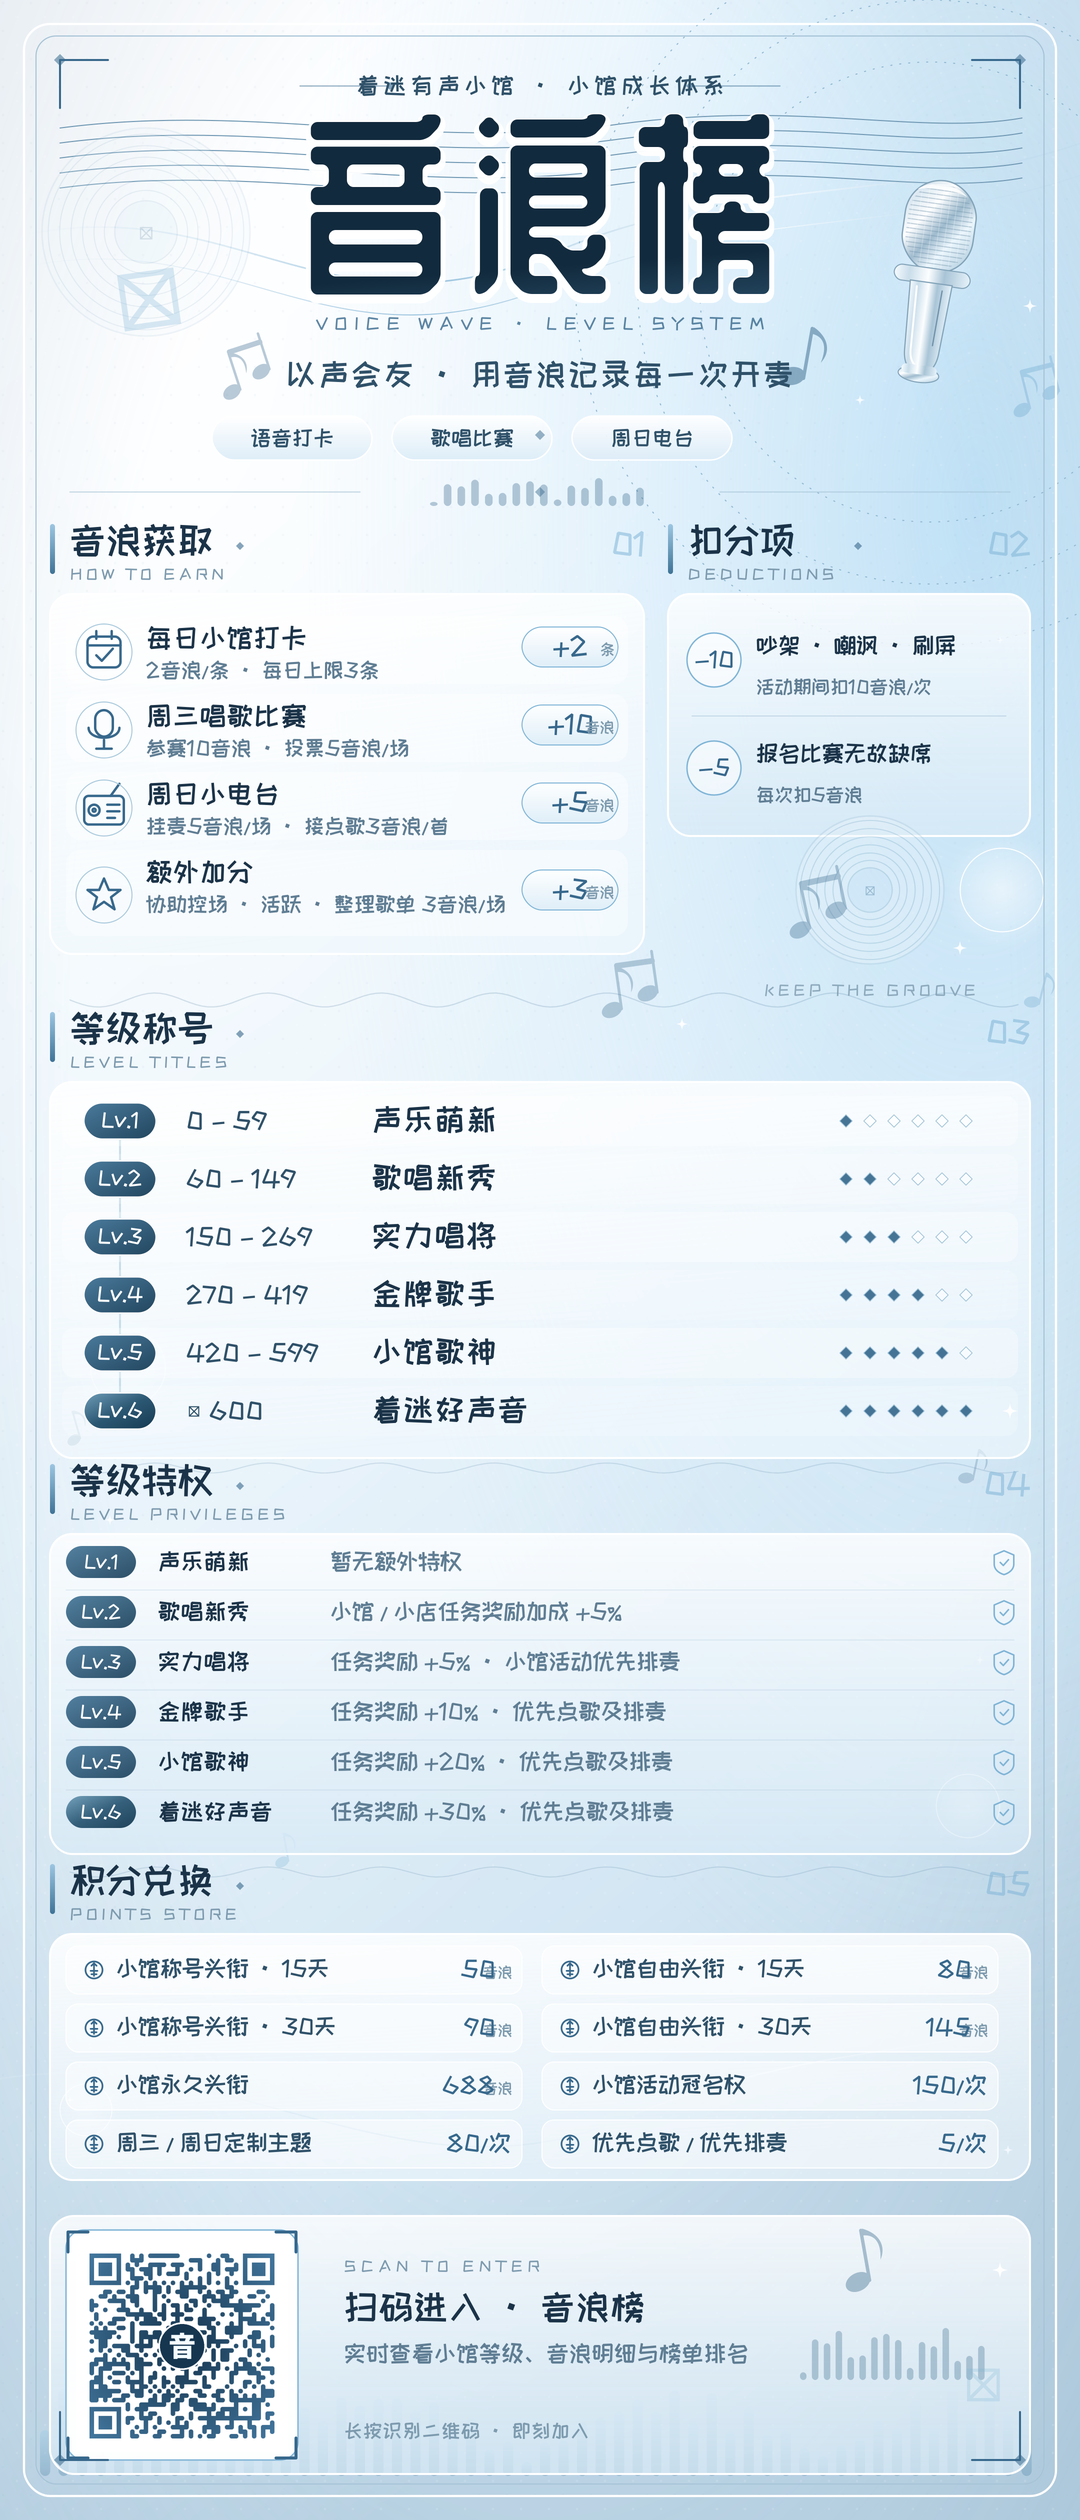
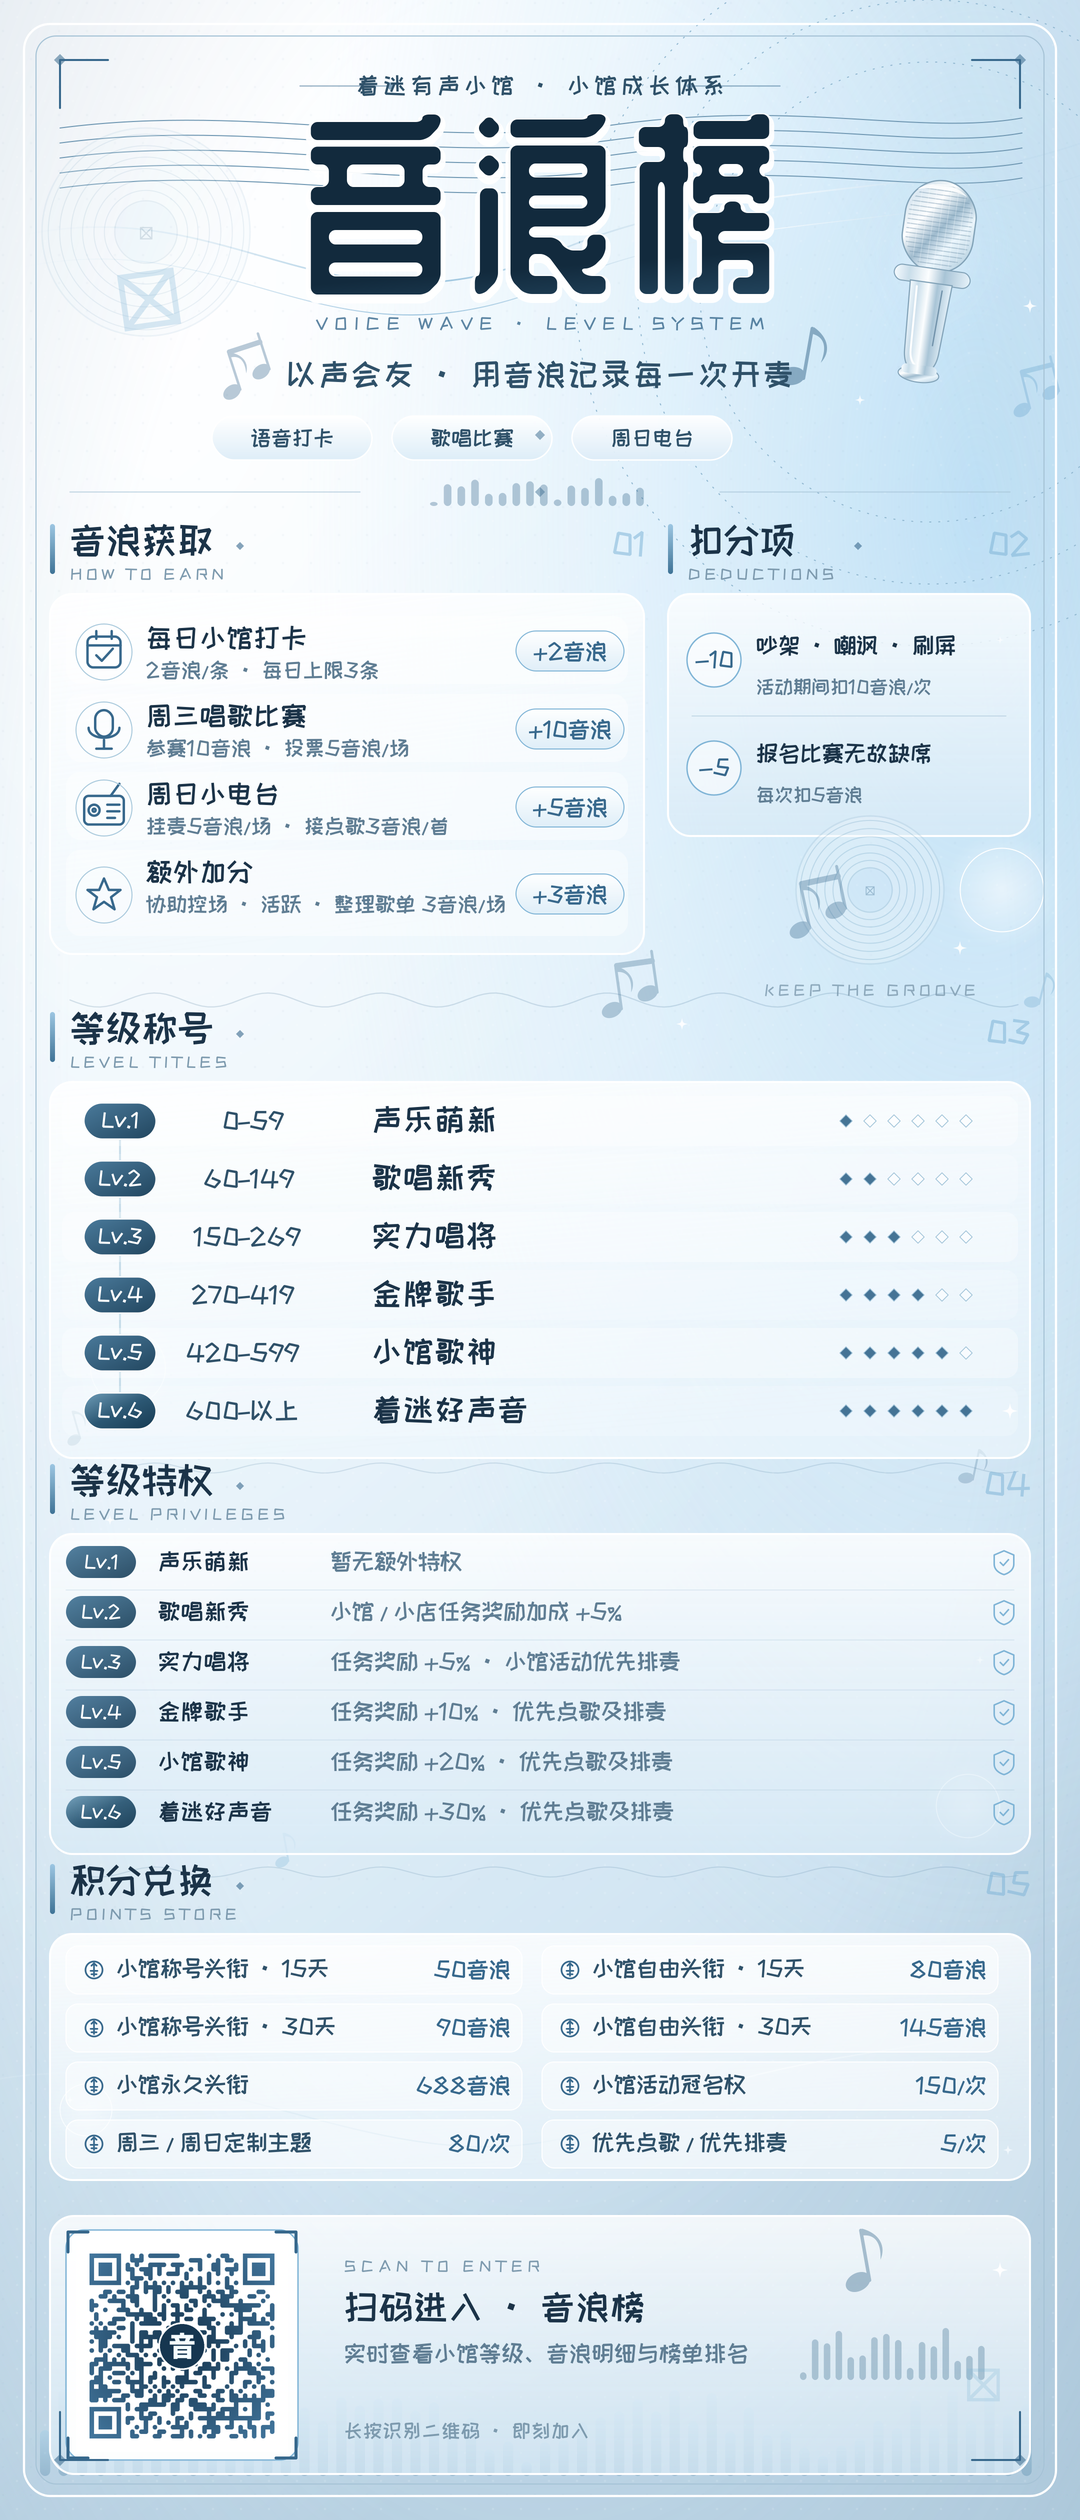
海报细节优化：音浪获取单位统一、等级区间对齐、积分兑换修复遮挡、周三比赛区块重排

diff --git a/poster/rules-posters/generate.py b/poster/rules-posters/generate.py
@@ -640,10 +640,10 @@ def build_main():
     o.append(rect(sx, cy, sw, 360, 22, fill="url(#glass)", op=1, stroke=WHITE, sw=2))
     o.append(rect(sx + 1, cy + 1, sw - 2, 42, 21, fill=WHITE, op=0.18))
     rows = [
-        (icon_calendar, "每日小馆打卡", "2音浪/条 · 每日上限3条", "+2", "条"),
-        (icon_mic, "周三唱歌比赛", "参赛10音浪 · 投票5音浪/场", "+10", ""),
-        (icon_radio, "周日小电台", "挂麦5音浪/场 · 接点歌3音浪/首", "+5", ""),
-        (icon_star_badge, "额外加分", "协助控场 · 活跃 · 整理歌单 3音浪/场", "+3", ""),
+        (icon_calendar, "每日小馆打卡", "2音浪/条 · 每日上限3条", "+2", "音浪"),
+        (icon_mic, "周三唱歌比赛", "参赛10音浪 · 投票5音浪/场", "+10", "音浪"),
+        (icon_radio, "周日小电台", "挂麦5音浪/场 · 接点歌3音浪/首", "+5", "音浪"),
+        (icon_star_badge, "额外加分", "协助控场 · 活跃 · 整理歌单 3音浪/场", "+3", "音浪"),
     ]
     heights = [78, 78, 78, 96]
     ry = cy + 18
@@ -654,10 +654,10 @@ def build_main():
         o.append(circle(sx + 54, ry + rh / 2 + 1, 28, stroke="#a9c9dc", sw=1, op=0.65))
         o.append(T(sx + 96, ry + 36, title, size=28, fill=INK, weight=700, ls=1))
         o.append(T(sx + 96, ry + 66, sub, size=22, fill=MUT, weight=400, ls=0.5))
-        # 分值徽章
-        o.append(rect(sx + sw - 122, ry + (rh - 48) / 2, 96, 40, 20, fill="url(#pillGrad)", op=0.95, stroke=ICE, sw=1))
-        o.append(T(sx + sw - 74, ry + (rh - 48) / 2 + 29, val, size=28, fill=ICE_DEEP, weight=800, anchor="middle", font=SANS))
-        o.append(T(sx + sw - 30, ry + (rh - 48) / 2 + 28, unit if unit else "音浪", size=16, fill=SOFT, weight=600, anchor="end"))
+        # 分值徽章（数值+单位统一字号，居中）
+        label = f"{val}{unit}"
+        o.append(rect(sx + sw - 128, ry + (rh - 40) / 2, 108, 40, 20, fill="url(#pillGrad)", op=0.95, stroke=ICE, sw=1))
+        o.append(T(sx + sw - 74, ry + (rh - 40) / 2 + 29, label, size=24, fill=ICE_DEEP, weight=800, anchor="middle", font=SANS))
         ry += rh
 
     # ===== 二、扣分项 =====
@@ -690,23 +690,26 @@ def build_main():
     card_y = ly + 42
     o.append(rect(50, card_y, 980, 376, 22, fill="url(#glass)", op=1, stroke=WHITE, sw=2))
     levels = [
-        ("Lv.1", "0 – 59", "声乐萌新"),
-        ("Lv.2", "60 – 149", "歌唱新秀"),
-        ("Lv.3", "150 – 269", "实力唱将"),
-        ("Lv.4", "270 – 419", "金牌歌手"),
-        ("Lv.5", "420 – 599", "小馆歌神"),
-        ("Lv.6", "≥ 600", "着迷好声音"),
+        ("Lv.1", "0", "59", "声乐萌新"),
+        ("Lv.2", "60", "149", "歌唱新秀"),
+        ("Lv.3", "150", "269", "实力唱将"),
+        ("Lv.4", "270", "419", "金牌歌手"),
+        ("Lv.5", "420", "599", "小馆歌神"),
+        ("Lv.6", "600", "以上", "着迷好声音"),
     ]
     row_y = card_y + 14
     o.append(line(120, row_y + 28, 120, row_y + 6 * 58 - 28, stroke="#a9c9dc", sw=2, op=0.6))
-    for i, (lv, rng, name) in enumerate(levels):
+    for i, (lv, lo, hi, name) in enumerate(levels):
         y = row_y + i * 58
         o.append(rect(62, y, 956, 50, 12, fill=WHITE, op=0.34 if i % 2 == 0 else 0.18))
         o.append(circle(120, y + 25, 6, fill=WHITE, stroke=ICE_DEEP, sw=2))
         grad = "url(#levelGrad6)" if i == 5 else "url(#levelGrad)"
         o.append(rect(84, y + 7, 72, 36, 18, fill=grad, op=1, stroke=WHITE, sw=1.2))
         o.append(T(120, y + 32, lv, size=22, fill=WHITE, weight=700, anchor="middle", font=SANS))
-        o.append(T(186, y + 34, rng, size=26, fill=INK2, weight=600, ls=0.5))
+        # 数值区间：左值右对齐、破折号居中、右值左对齐，确保所有行破折号垂直对齐
+        o.append(T(238, y + 34, lo, size=26, fill=INK2, weight=600, anchor="end", ls=0.5))
+        o.append(T(244, y + 34, "–", size=26, fill=INK2, weight=600, anchor="middle", ls=0.5))
+        o.append(T(250, y + 34, hi, size=26, fill=INK2, weight=600, anchor="start", ls=0.5))
         o.append(T(372, y + 35, name, size=32, fill=INK, weight=700, font=SERIF, ls=2))
         # 星级
         for k in range(6):
@@ -764,11 +767,9 @@ def build_main():
         o.append(rect(x, y, 456, 48, 12, fill=WHITE, op=0.45, stroke=WHITE, sw=1))
         o.append(icon_coin(x + 28, y + 24, 0.85, c=ICE_DEEP))
         o.append(T(x + 50, y + 31, name, size=24, fill=INK2, weight=500))
-        if "/" in price:
-            o.append(T(x + 444, y + 32, price, size=25, fill=ICE_DEEP, weight=800, anchor="end"))
-        else:
-            o.append(T(x + 446, y + 32, "音浪", size=16, fill=SOFT, weight=600, anchor="end"))
-            o.append(T(x + 428, y + 32, price, size=25, fill=ICE_DEEP, weight=800, anchor="end"))
+        # 数值+单位统一字号，合并渲染避免遮挡
+        label = price if "/" in price else f"{price}音浪"
+        o.append(T(x + 444, y + 32, label, size=24, fill=ICE_DEEP, weight=800, anchor="end"))
 
     # ===== 底部二维码 =====
     qy = 2216
@@ -841,7 +842,7 @@ def build_wednesday():
     o.append(diamond(540, 408, 5, fill=ICE_DEEP, op=0.45))
 
     # ===== 活动流程 =====
-    sy = 478
+    sy = 460
     o.append(section(50, sy, "活动流程", "SCHEDULE", width=980, num="01"))
     card_y = sy + 42
     o.append(rect(50, card_y, 980, 148, 22, fill="url(#glass)", op=1, stroke=WHITE, sw=2))
@@ -861,7 +862,7 @@ def build_wednesday():
             o.append(line(540, card_y + 22, 540, card_y + 126, stroke=LINE, sw=1, op=0.5))
 
     # ===== 比赛模式 =====
-    my = 690
+    my = 710
     o.append(section(50, my, "比赛模式", "HOW IT WORKS", width=980, num="02"))
     card_y = my + 42
     o.append(rect(50, card_y, 980, 126, 22, fill="url(#glassDeep)", op=1, stroke=WHITE, sw=2))
@@ -872,7 +873,7 @@ def build_wednesday():
     o.append(pill(940, card_y + 48, 118, 36, "现场演唱", size=18, color=ICE_DEEP))
 
     # ===== 投票计分规则 =====
-    vy = 906
+    vy = 930
     o.append(section(50, vy, "投票计分规则", "VOTING & SCORING", width=980, num="03"))
 
     # 卡 1
@@ -897,7 +898,7 @@ def build_wednesday():
     o.append(T(176, c2y + 118, "专注演唱本身，实力就是最好的答案。", size=20, fill=SOFT, ls=1))
 
     # ===== 三个关键词徽章 =====
-    by = 1398
+    by = 1362
     badges = [("3 票", "每人投票权", icon_ballot), ("不可自投", "保持公平", icon_shield), ("现场打分", "实力说话", icon_star_badge)]
     for i, (big, small, ic) in enumerate(badges):
         cx = 200 + i * 340
